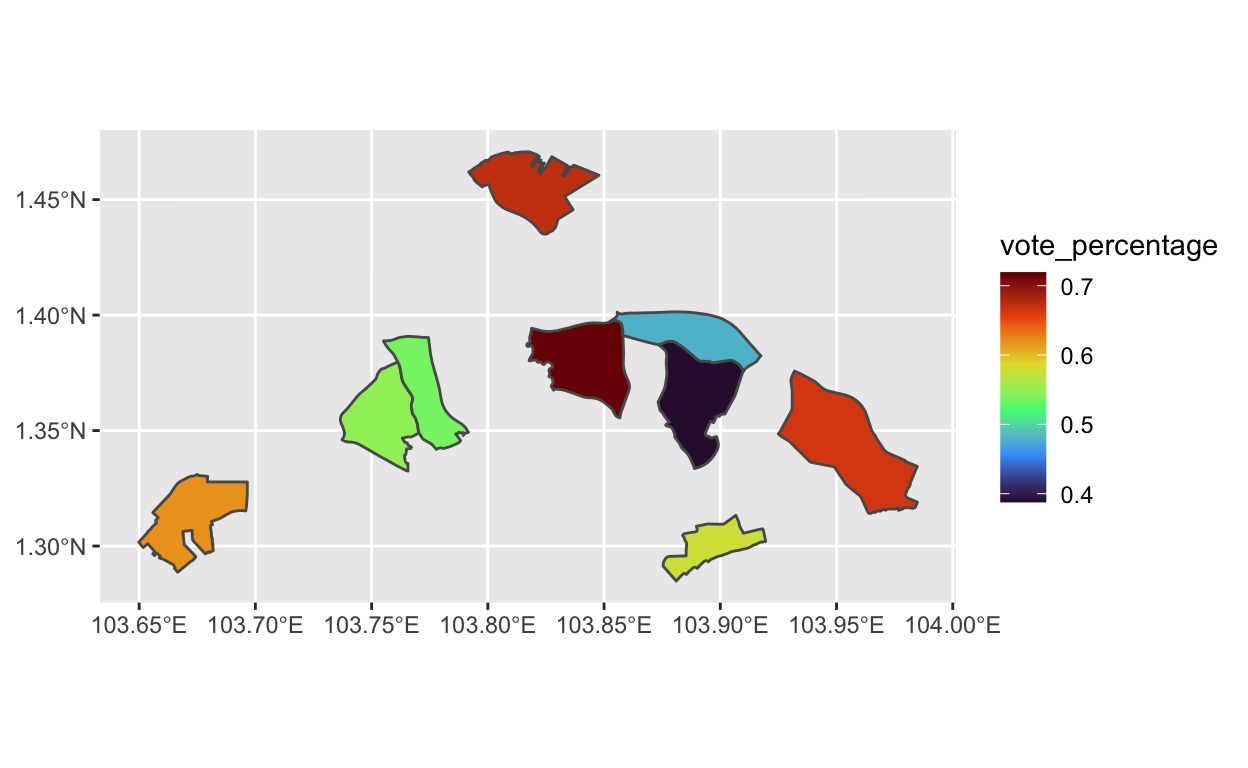
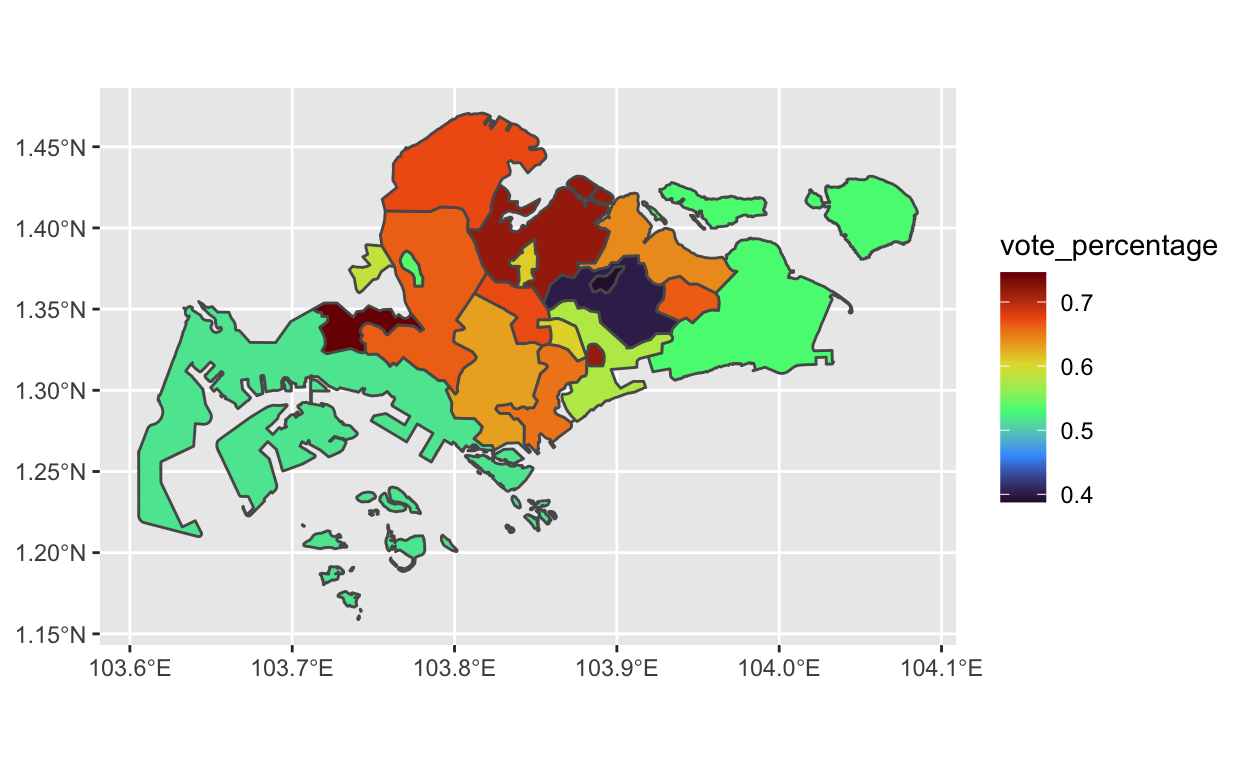
new commit

diff --git a/index.html b/index.html
@@ -1972,23 +1972,13 @@ First 10 features:
 <h2 id="mapping-visualization">Mapping Visualization</h2>
 <div class="layout-chunk" data-layout="l-body">
 <div class="sourceCode">
-<pre class="sourceCode r"><code class="sourceCode r"><span><span class='va'>newdata</span> <span class='op'>&lt;-</span> <span class='fu'><a href='https://rdrr.io/r/base/merge.html'>merge</a></span><span class='op'>(</span><span class='va'>singapore</span>, <span class='va'>papwin</span>, by.x <span class='op'>=</span> <span class='st'>"conwin2"</span>, by.y <span class='op'>=</span> <span class='st'>"conwin2"</span><span class='op'>)</span></span>
-<span></span>
-<span><span class='fu'><a href='https://ggplot2.tidyverse.org/reference/ggplot.html'>ggplot</a></span><span class='op'>(</span><span class='va'>newdata</span><span class='op'>)</span> <span class='op'>+</span></span>
-<span> <span class='fu'><a href='https://ggplot2.tidyverse.org/reference/ggsf.html'>geom_sf</a></span><span class='op'>(</span>data <span class='op'>=</span> <span class='va'>newdata</span>, <span class='fu'><a href='https://ggplot2.tidyverse.org/reference/aes.html'>aes</a></span><span class='op'>(</span>fill <span class='op'>=</span> <span class='va'>vote_percentage</span><span class='op'>)</span><span class='op'>)</span> <span class='op'>+</span> </span>
-<span>  <span class='fu'><a href='https://ggplot2.tidyverse.org/reference/scale_viridis.html'>scale_fill_viridis_c</a></span><span class='op'>(</span>option <span class='op'>=</span> <span class='st'>"H"</span><span class='op'>)</span></span></code></pre>
-</div>
-<p><img src="index_files/figure-html5/unnamed-chunk-11-1.png" width="624" /></p>
-</div>
-<div class="layout-chunk" data-layout="l-body">
-<div class="sourceCode">
 <pre class="sourceCode r"><code class="sourceCode r"><span><span class='va'>newnewdata</span> <span class='op'>&lt;-</span> <span class='fu'><a href='https://rdrr.io/r/base/merge.html'>merge</a></span><span class='op'>(</span><span class='va'>sgnew</span>, <span class='va'>papwin</span>, by.x <span class='op'>=</span> <span class='st'>"cwin"</span>, by.y <span class='op'>=</span> <span class='st'>"cwin"</span><span class='op'>)</span></span>
 <span></span>
 <span><span class='fu'><a href='https://ggplot2.tidyverse.org/reference/ggplot.html'>ggplot</a></span><span class='op'>(</span><span class='va'>newnewdata</span><span class='op'>)</span> <span class='op'>+</span></span>
 <span> <span class='fu'><a href='https://ggplot2.tidyverse.org/reference/ggsf.html'>geom_sf</a></span><span class='op'>(</span>data <span class='op'>=</span> <span class='va'>newnewdata</span>, <span class='fu'><a href='https://ggplot2.tidyverse.org/reference/aes.html'>aes</a></span><span class='op'>(</span>fill <span class='op'>=</span> <span class='va'>vote_percentage</span><span class='op'>)</span><span class='op'>)</span> <span class='op'>+</span> </span>
 <span>  <span class='fu'><a href='https://ggplot2.tidyverse.org/reference/scale_viridis.html'>scale_fill_viridis_c</a></span><span class='op'>(</span>option <span class='op'>=</span> <span class='st'>"H"</span><span class='op'>)</span></span></code></pre>
 </div>
-<p><img src="index_files/figure-html5/unnamed-chunk-12-1.png" width="624" /></p>
+<p><img src="index_files/figure-html5/unnamed-chunk-11-1.png" width="624" /></p>
 </div>
 <div class="sourceCode" id="cb7"><pre class="sourceCode r distill-force-highlighting-css"><code class="sourceCode r"></code></pre></div>
 <!--radix_placeholder_article_footer-->
